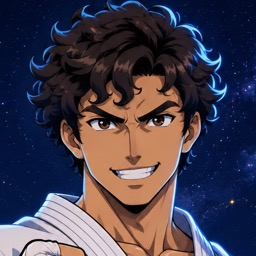
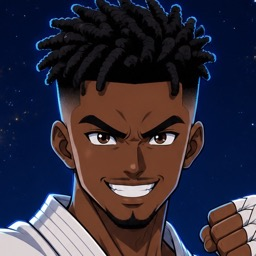
Club v3 demo dashboard: Marcus and Jordan heroes redrawn so the three example clients look clearly different

diff --git a/club/v3/coach.html b/club/v3/coach.html
@@ -335,7 +335,7 @@ textarea.plan:focus { outline: 0; border-color: var(--gold); }
       h("button", { type: "button", class: "btn", style: "border-color:var(--frame-dim);color:var(--muted)", text: "Clear examples", onclick: function () { s.cleared = true; render(); } })]));
     out.push(h("div", { class: "clients" }, CLIENTS.slice().reverse().map(function (c) {
       return h("button", { type: "button", class: "client", onclick: function () { s.open = c.id; render(); window.scrollTo(0, 0); } }, [
-        h("div", { class: "face" }, [h("img", { src: "img/" + c.id + "-head.jpg", alt: c.name + "'s hero (example)", width: "64", height: "64" }), h("span", { class: "rk", "aria-label": "Rank " + c.rank, text: c.rank })]),
+        h("div", { class: "face" }, [h("img", { src: "img/" + c.id + "-head.jpg?v=2", alt: c.name + "'s hero (example)", width: "64", height: "64" }), h("span", { class: "rk", "aria-label": "Rank " + c.rank, text: c.rank })]),
         h("div", { class: "who" }, [h("b", { text: c.name }), h("span", { text: c.age + " · " + c.sex + " · sent " + c.sent + ranked(c) })]),
         h("span", { class: "status" + (s.sent[c.id] ? " sent" : ""), text: s.sent[c.id] ? "PLAN SENT" : "PLAN TO REVIEW" }),
         tags(c)]); })));
@@ -359,7 +359,7 @@ textarea.plan:focus { outline: 0; border-color: var(--gold); }
             h("p", { class: "note", style: "margin:10px 0 0", text: c.belts + ". Sample values." })]),
           h("div", { class: "sheet" }, [h("h2", { text: "THEIR HERO" }), h("div", { class: "pics" }, [
             h("div", { class: "pic" }, [h("b", { text: c.way === "Description only" ? "✍" : "📷" }), c.way === "Description only" ? "No photo: drawn from her description" : c.way + " (made-up example image goes here)"]),
-            h("figure", { style: "margin:0" }, [h("img", { class: "heroart", src: "img/" + c.id + "-hero.jpg", alt: c.name + "'s anime hero, " + c.outfit.toLowerCase() + " (example)" }),
+            h("figure", { style: "margin:0" }, [h("img", { class: "heroart", src: "img/" + c.id + "-hero.jpg?v=2", alt: c.name + "'s anime hero, " + c.outfit.toLowerCase() + " (example)" }),
               h("figcaption", { class: "note", style: "margin-top:6px", text: "Hero: " + c.outfit.toLowerCase() + " (example art)" })])])])]),
         h("div", { style: "display:grid;gap:18px" }, [
           h("div", { class: "win" }, [h("h2", { text: "NUTRITION DRAFT" }),
